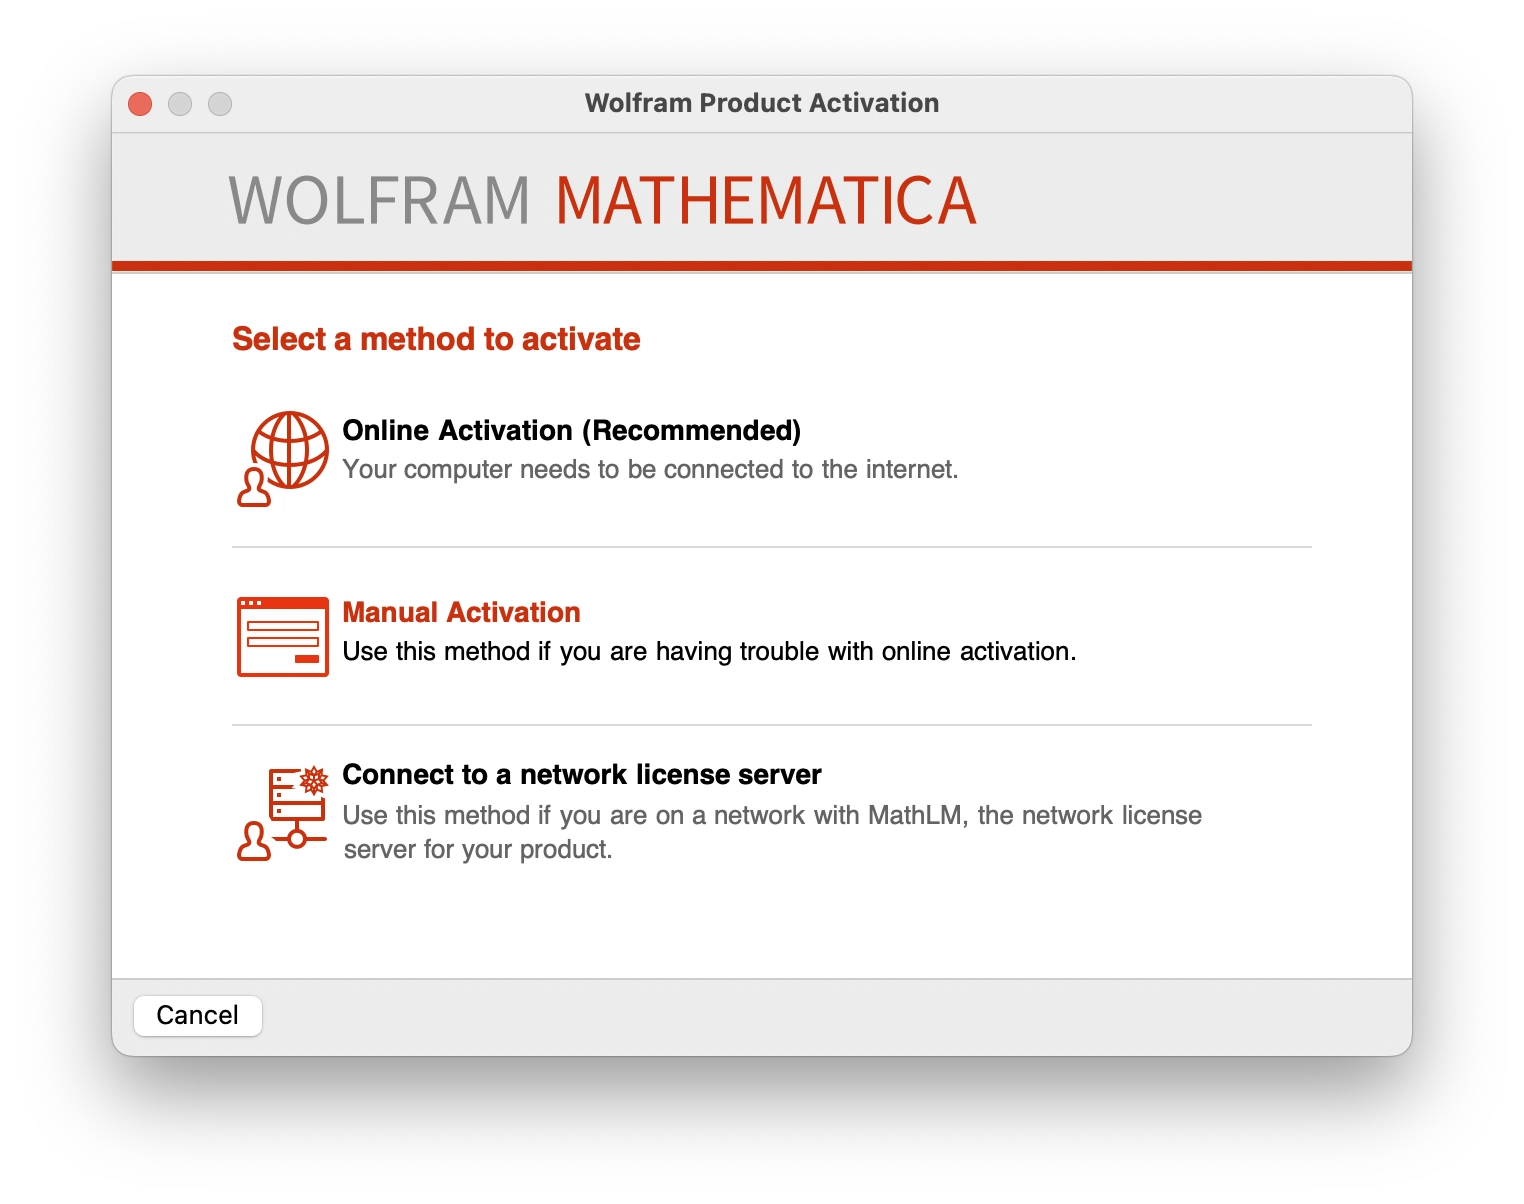
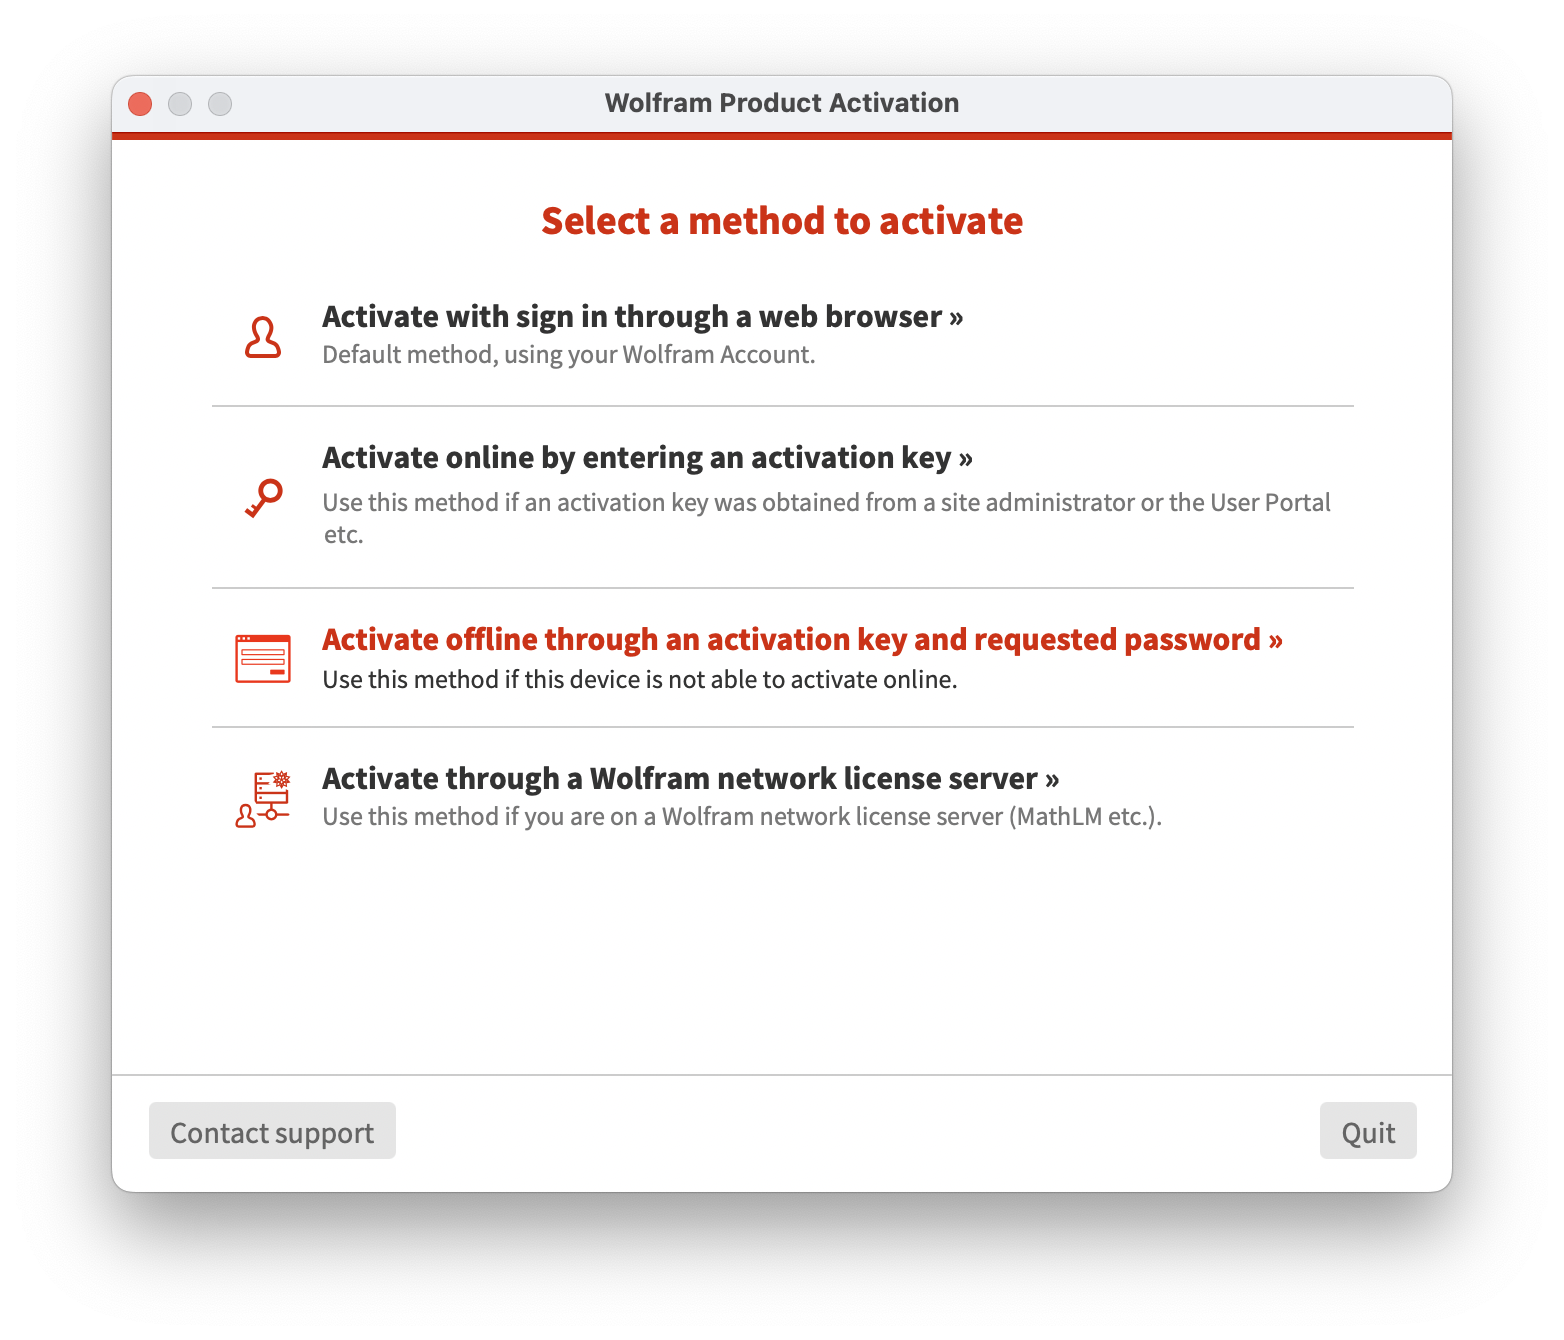
:pencil: Update mathematica kengen usage instruction

diff --git a/content/posts/misc/mathematica_key_gen/wolfram-keygen.js b/content/posts/misc/mathematica_key_gen/wolfram-keygen.js
@@ -17,7 +17,7 @@ const SALT_MAP = {
     'mathlm:10.0-14.0+': ['0x72A4', '0x29A5', '0x140A', '0x3FD1', '0x452D', '0x541A', '0x3575', '0x7F8C', '0x6587', '0x5B29']
 };
 
-document.getElementById('mathid').addEventListener('input', function () {
+document.getElementById('machid').addEventListener('input', function () {
     this.checkValidity();
 });
 
@@ -262,7 +262,7 @@ function genPass(event) {
     }
     const salt = saltList[saltIndexMap[saltKey]];
     const isEverywhere = type === 'mathlm';
-    const mathId = document.getElementById('mathid').value.trim();
+    const mathId = document.getElementById('machid').value.trim();
     const actKey = document.getElementById('actkey').value.trim();
     // const maxProcs = document.querySelector('#max-lic-procs').value;
     const maxProcs = "";

diff --git a/content/posts/misc/mathematica_key_gen/index.en.md b/content/posts/misc/mathematica_key_gen/index.en.md
@@ -25,13 +25,21 @@ This Keygen is only for evaluation, please purchase the software on the [Officia
 
 {{< /admonition >}}
 
-
 {{< admonition tip "How to Use" false >}}
 
-On Mathematica Activation page, select "Manually Activation", use the MathID to generate "Activation Key" and "Password"。
+1. On the Mathematica activation window, select “**Activate offline through an activation key and requested password**”.
+2. You will see a string labeled `Your MachineID`, which uniquely identifies your device. Click the copy button next to it and paste the value into the keygen.
+   {{< image src="images/Mathematica-Activation_1.webp" caption="Mathematica Activation - 1" title="Mathematica Activation - 1">}}
+3. In the keygen, enter any valid `Activation Key` in the format:
 
-{{< image src="images/Mathematica-Activation_1.webp" caption="Mathematica Activation - 1" title="Mathematica Activation - 1">}}
-{{< image src="images/Mathematica-Activation_2.webp" caption="Mathematica Activation - 1" title="Mathematica Activation - 1">}}
+   ```shell
+   nnnn-nnnn-xxxxxx
+   ```
+
+   where `n` is a digit and `x` is an uppercase letter or digit.
+4. The keygen will generate a corresponding `Password` based on the `MachineID` and `Activation Key`.
+5. Copy the generated Password into the Mathematica activation interface and click Activate to complete the process.
+   {{< image src="images/Mathematica-Activation_2.webp" caption="Mathematica Activation - 2" title="Mathematica Activation - 2">}}
 
 {{< /admonition >}}
 
@@ -56,14 +64,14 @@ On Mathematica Activation page, select "Manually Activation", use the MathID to 
          <option value="mathlm:10.0-14.0+" data-type="mathlm" data-ver="10.0-14.0+">MathLM 10.0-14.0+</option>
       </select>
       <div id="fields" class="hidden">
-         <label for="mathid">
-            MathID <span class="req">*</span>
+         <label for="machid">
+            MachineID <span class="req">*</span>
             <button class="info-btn" onclick="toggleTip(this)"><span class="info-char">?</span></button>
             <div class="tooltip-box hidden">
                <p>Format is <code>nnnn-nnnnn-nnnnn</code>, which is the unique device identifier, for example <code>1234-56789-01234</code>.</p>
             </div>
          </label>
-         <input type="text" id="mathid" pattern="\d{4}-\d{5}-\d{5}" required />
+         <input type="text" id="machid" pattern="\d{4}-\d{5}-\d{5}" required />
          <label for="actkey">
             Activation Key <span class="req">*</span>
             <button class="info-btn" onclick="toggleTip(this)"><span class="info-char">?</span></button>

diff --git a/content/posts/misc/mathematica_key_gen/index.zh-cn.md b/content/posts/misc/mathematica_key_gen/index.zh-cn.md
@@ -27,10 +27,19 @@ categories:
 
 {{< admonition tip "使用方法" false >}}
 
-在 Mathematica 激活页面选择“Manually Activation”手动激活，复制 MathID 并填入注册机生成对应的 “Activation Key” 和 “Password” 即可。
+1. 打开 Mathematica 激活窗口后，点击 “**Activate offline through an activation key and requested password**”（通过激活码和密码离线激活）选项。
+2. 在激活界面中，你将看到一个名为 `Your MachineID` 的字符串，它是设备的唯一识别码。点击右侧的复制按钮，将其粘贴到注册机对应位置。
+   {{< image src="images/Mathematica-Activation_1.webp" caption="Mathematica Activation - 1" title="Mathematica Activation - 1">}}
+3. 在注册机中输入任意格式合法的 `Activation Key`（激活码），格式如下：
 
-{{< image src="images/Mathematica-Activation_1.webp" caption="Mathematica Activation - 1" title="Mathematica Activation - 1">}}
-{{< image src="images/Mathematica-Activation_2.webp" caption="Mathematica Activation - 1" title="Mathematica Activation - 1">}}
+   ```shell
+   nnnn-nnnn-xxxxxx
+   ```
+
+   其中 n 表示数字，x 表示大写字母或数字。
+4. 注册机会根据 `MachineID` 和 `Activation Key` 生成对应的 `Password`（密码）。
+5. 将生成的 `Password` 填入 Mathematica 的激活界面，点击 `Activate` 即可完成激活。
+   {{< image src="images/Mathematica-Activation_2.webp" caption="Mathematica Activation - 2" title="Mathematica Activation - 2">}}
 
 {{< /admonition >}}
 
@@ -55,14 +64,14 @@ categories:
          <option value="mathlm:10.0-14.0+" data-type="mathlm" data-ver="10.0-14.0+">MathLM 10.0-14.0+</option>
       </select>
       <div id="fields" class="hidden">
-         <label for="mathid">
-            MathID <span class="req">*</span>
+         <label for="machid">
+            MachineID <span class="req">*</span>
             <button class="info-btn" onclick="toggleTip(this)"><span class="info-char">?</span></button>
             <div class="tooltip-box hidden">
                <p>格式为 <code>nnnn-nnnnn-nnnnn</code>，是设备唯一识别码，例如 <code>1234-56789-01234</code>。</p>
             </div>
          </label>
-         <input type="text" id="mathid" pattern="\d{4}-\d{5}-\d{5}" required />
+         <input type="text" id="machid" pattern="\d{4}-\d{5}-\d{5}" required />
          <label for="actkey">
             Activation Key <span class="req">*</span>
             <button class="info-btn" onclick="toggleTip(this)"><span class="info-char">?</span></button>
